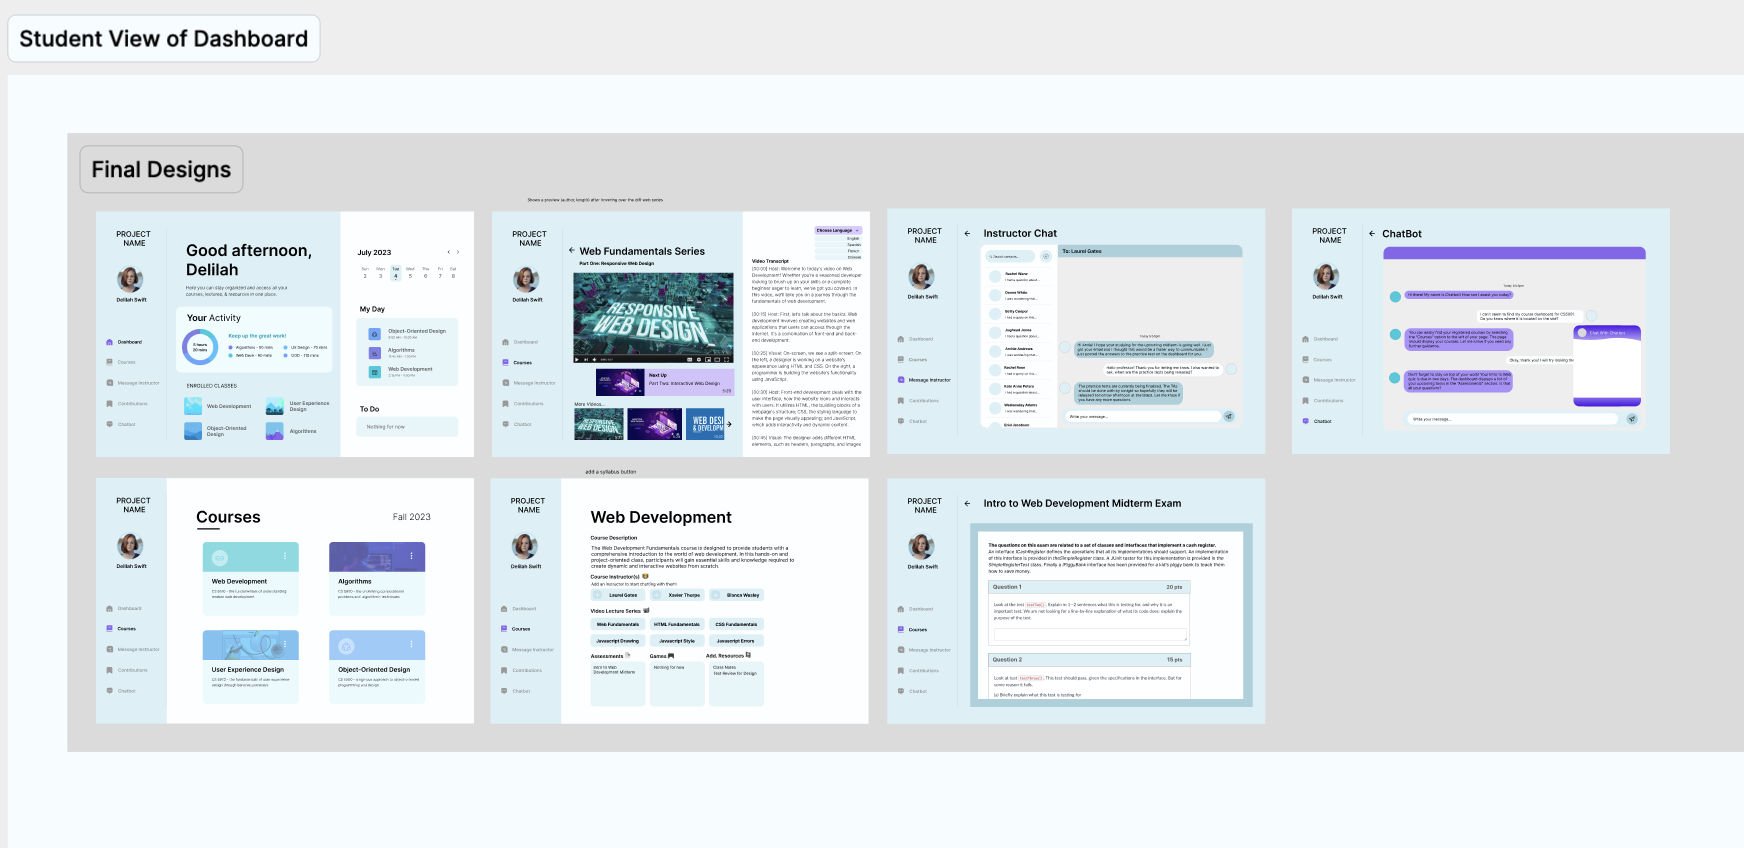
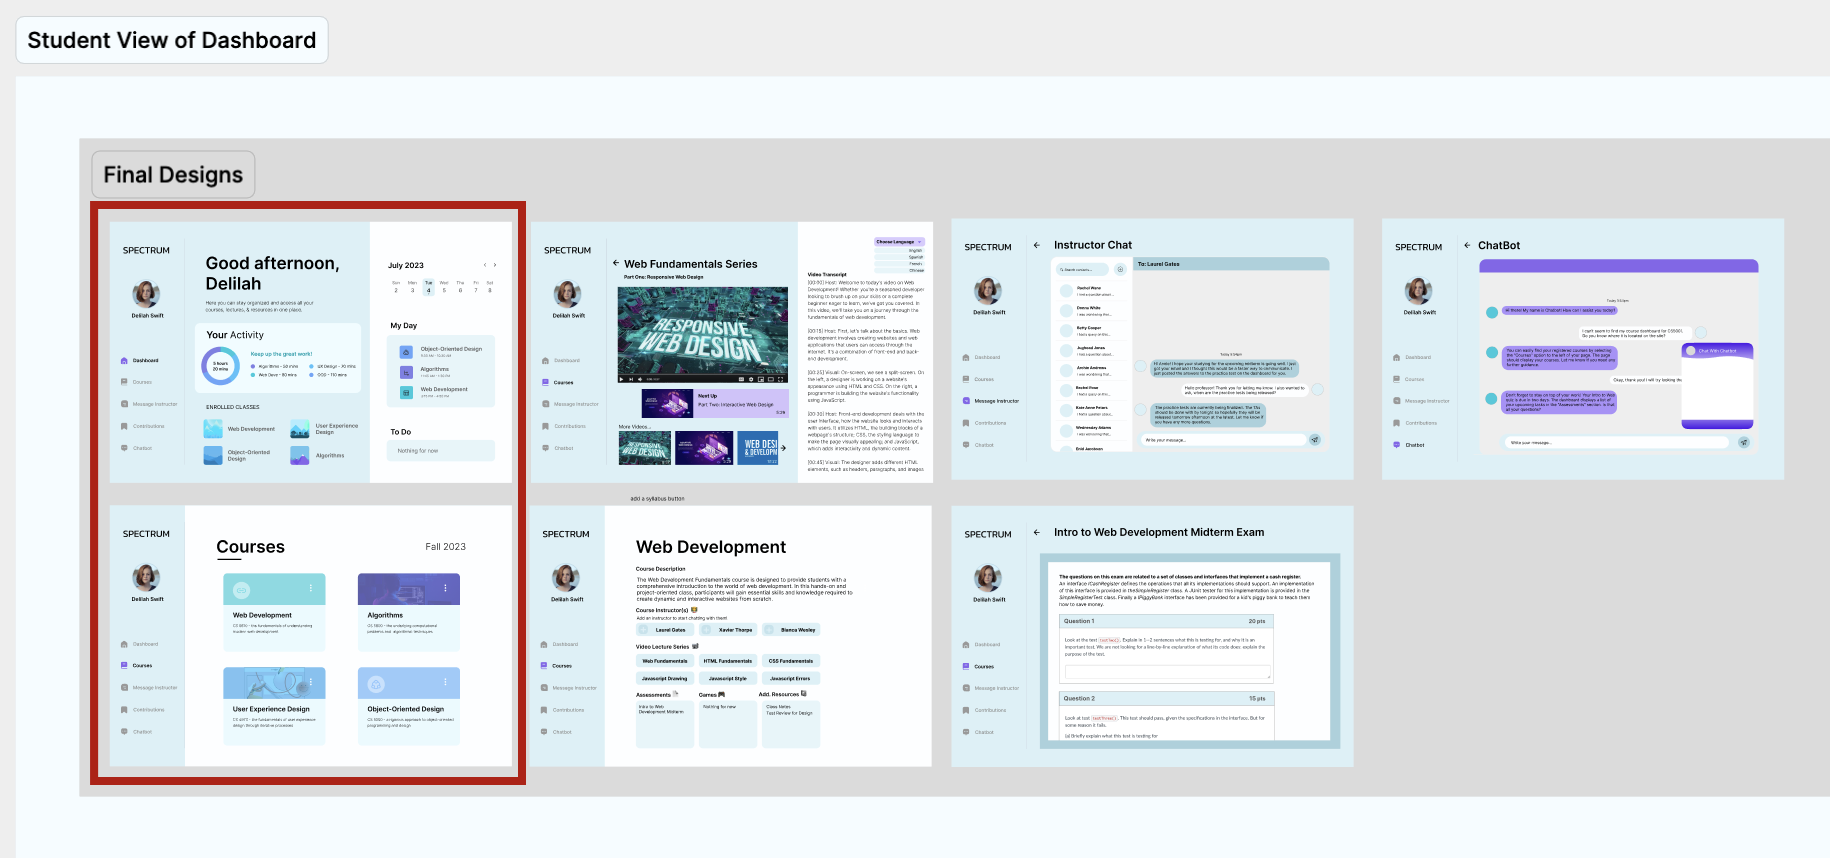
updating home page

Changed region(s): [[0.031, 0.1533, 1.0, 0.9505], [0.0, 0.0307, 0.1858, 0.0613]]

diff --git a/projects/spectrum.html b/projects/spectrum.html
@@ -159,7 +159,7 @@
          </span>
 
          <span class="userTesting">
-            <strong>User Testing</strong>
+            <strong>Usability Testing</strong>
          </span>
          <div class="enjoyed-improvements-container">
             <div class="enjoyed-list">
@@ -193,6 +193,9 @@
 
 <span class="bigger" id="hifi">
     <strong>High-fidelity Wireframes</strong>
+    <p class="move-up">
+        Frames with red border around them are the ones I designed.
+    </p>
     <p id="lofiName">Log-in pages</p>
     <figure>
         <img src="images/hifi-login.png">

diff --git a/index.html b/index.html
@@ -45,9 +45,9 @@
 
     <marquee direction="left" 
         loop="infinite" scrollamount="10">
-        ACTIVIST
         CODER
         DESIGNER
+        ACTIVIST
         STUDENT
         INTERROGATOR
         VISUALIZER

diff --git a/projects/spectrum.css b/projects/spectrum.css
@@ -17,6 +17,14 @@ header {
 }
 
 
+.move-up {
+margin-left: 33%;   
+margin-bottom: 2%;
+width: 700px;
+    
+}
+
+
 nav {
     margin-right: 2.6%;
     margin-left: auto;
